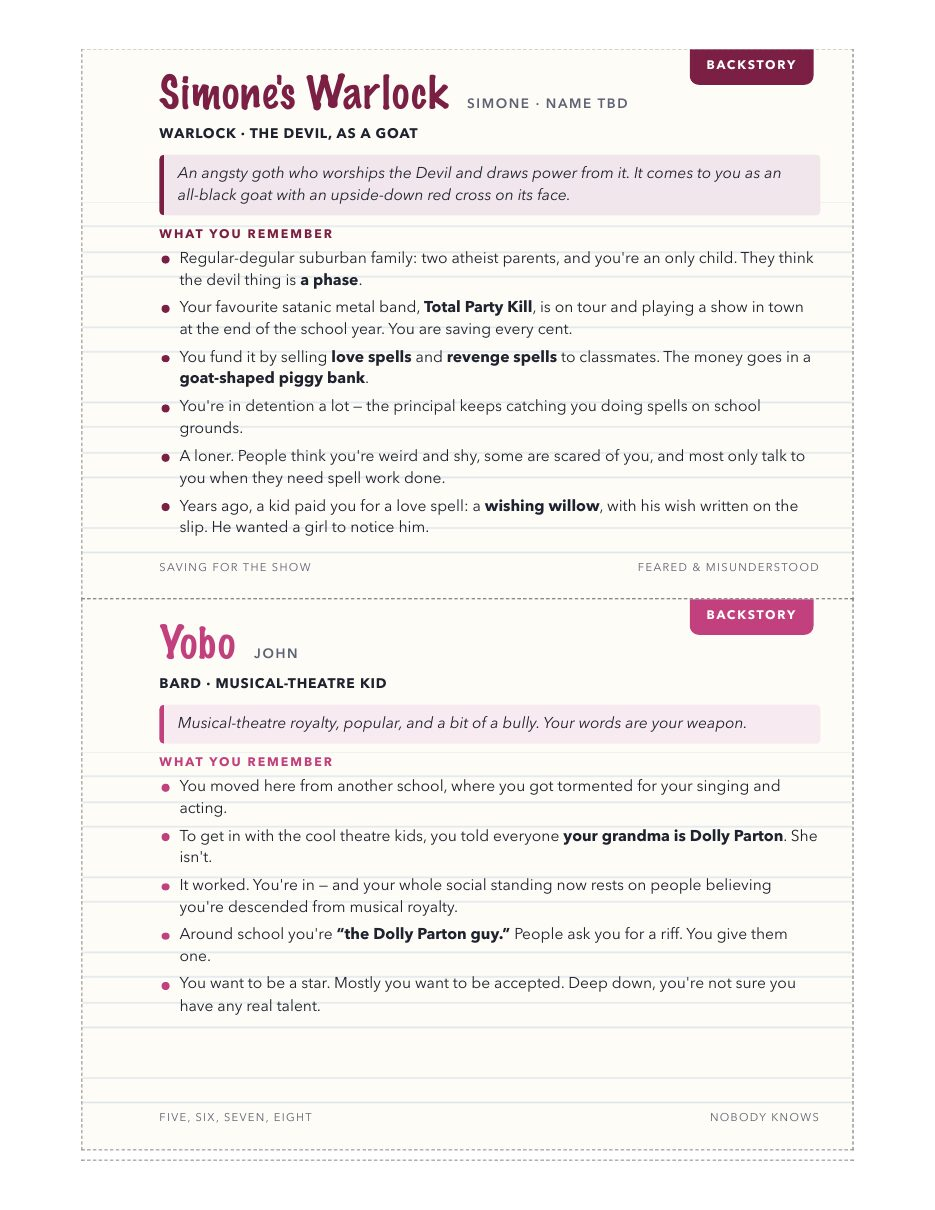
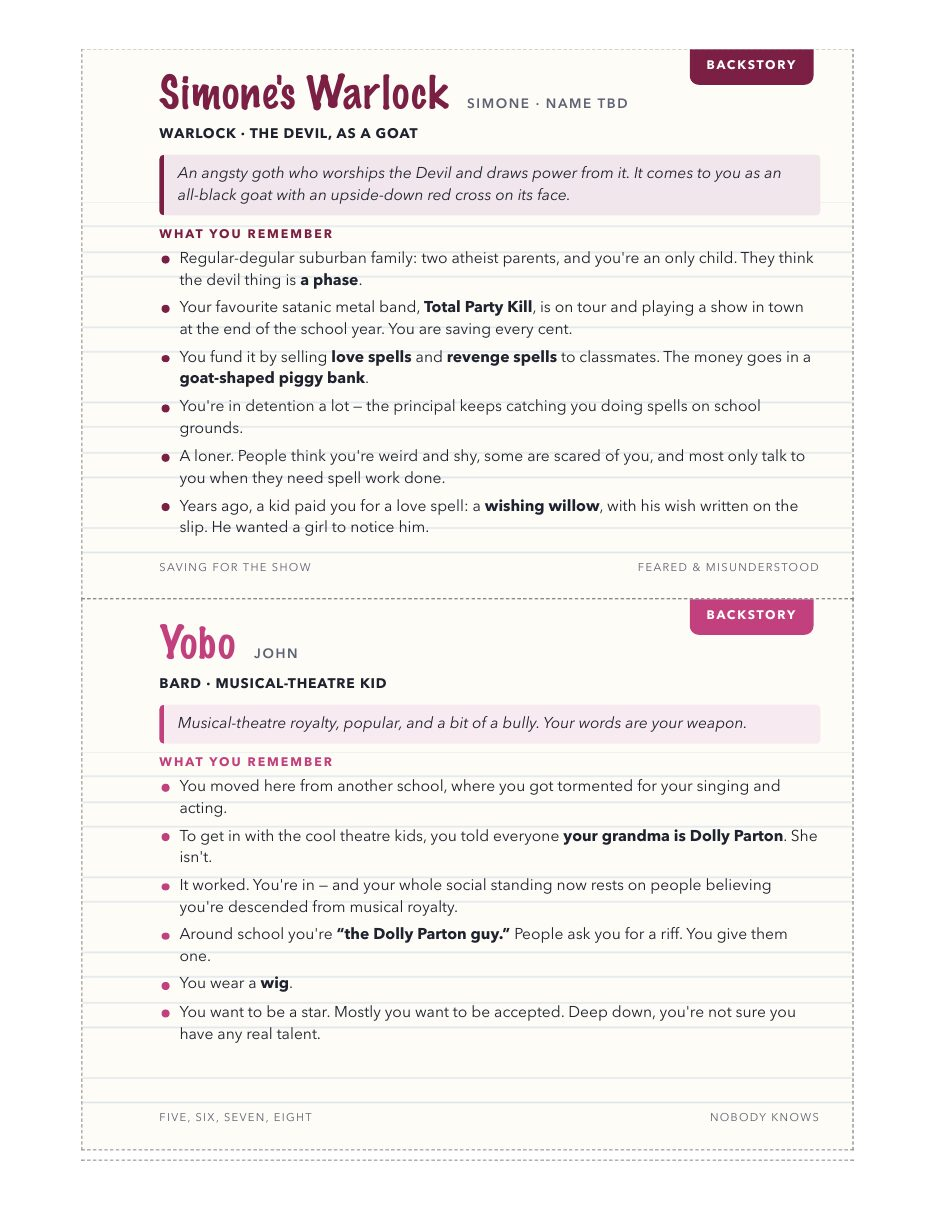
Yobo wears a wig; close contingencies; draft the set-dressing list
- o2 closed: Yobo wears a wig (Scott, aligned with John). Codex node,
  CANON rows and Yobo's backstory card updated; card reprinted.
- s9 closed (they'll improvise); t7 becomes card zero of the Run of Show
  (review:1); t5 gets a ten-item shopping list with rough prices
  (review:1).

Changed region(s): [[0.4652, 0.795, 0.6824, 0.8562], [0.1861, 0.795, 0.4342, 0.8562], [0.7444, 0.795, 0.8374, 0.8562]]

diff --git a/codex/index.html b/codex/index.html
@@ -535,10 +535,10 @@ const NODES = [
     finale:"<b>She gets the concert anyway.</b> Poe Boy loves Total Party Kill too and had tickets. When his mother arrives in the driveway she grounds him — <i>and he is certainly not going to that satan concert</i> — and the tickets end up with Simone, who spent every dollar she had a few hours earlier." },
   {id:"john", name:"Yobo", sub:"John · Musical-theatre Bard", g:"player", x:120, y:490,
     role:"Player Character", s:"doc",
-    fields:{Name:"Yobo",Race:"TBD",Class:"Bard (leaning)",Vibe:"Musical-theatre bully / popular kid living a lie"},
-    desc:"A <b>musical-theatre bully / popular kid</b> named <b>Yobo</b> who transferred in from a school where he was tormented for weak singing and acting. To get in with the cool theatre kids he told everyone <b>his grandmother is Dolly Parton</b> — a lie — so his whole social standing rests on people believing he's descended from musical royalty. He wants to be a star, but mostly just wants to be accepted, and he's deeply insecure about whether he has any real talent.",
+    fields:{Name:"Yobo",Race:"TBD",Class:"Bard (leaning)",Vibe:"Musical-theatre bully / popular kid living a lie",Wig:"Yes"},
+    desc:"A <b>musical-theatre bully / popular kid</b> named <b>Yobo</b> who transferred in from a school where he was tormented for weak singing and acting. To get in with the cool theatre kids he told everyone <b>his grandmother is Dolly Parton</b> — a lie — so his whole social standing rests on people believing he's descended from musical royalty. He wants to be a star, but mostly just wants to be accepted, and he's deeply insecure about whether he has any real talent. He wears a <b>wig</b>.",
     hook:"TLDR: <b>Yobo stops lying to the group about his origins and is stronger for it.</b> The lie is a <b>debuff</b> — juggling an internal performance gives <b>disadvantage on Performance and weakened Bardic Inspiration</b>, but <b>advantage on Deception</b>. The turn is in the <b>party room</b>: the frozen ghost-party accepts only a <i>true</i> performance, Dracula pushes him to drop the act, and it flips to <b>advantage on Performance and enhanced Bardic Inspiration</b> for the rest of the campaign. Prop at <code>/party-room/</code>; full build in <code>/PROPOSALS.md</code>.",
-    ai:"<b>Still open:</b> whether it's canon that Yobo wears a <b>wig</b> (written as a question for John, so it is NOT yet settled), plus his race, a Bard subclass (Glamour rhymes with Poe Boy), and the exact debuff/buff dice, which are Scott's to tune. The old 1938 blood tie (E. Hoeck on the puzzle checkout card) stays dropped and is now unclaimed." },
+    ai:"<b>Still open:</b> his race, a Bard subclass (Glamour rhymes with Poe Boy), and the exact debuff/buff dice, which are Scott's to tune. The old 1938 blood tie (E. Hoeck on the puzzle checkout card) stays dropped and is now unclaimed." },
   {id:"cody", name:"Russ", sub:"Cody · Firbolg Druid", g:"player", x:120, y:610,
     role:"Player Character", s:"doc",
     fields:{Race:"Firbolg",Class:"Druid",Vibe:"Earnest wilderness scout — basically Russell from Up"},
@@ -942,7 +942,7 @@ const TODO = [
   ["Why these five? — <b>deliberately unexplained</b>","The invite is exclusive — five cards, five lockers, nobody else — and nobody ever says why these five. The players will ask it out loud the moment they realise no one else got a card; let the question hang. Scott, 3 Nov.","doc"],
   ["Who was the 3AM flyer for?","There is a public-looking DJ show flyer for 3AM at Dood Mansion. With nobody else invited, either it went out wide as the <b>cover story</b> — the thing Poe Boy showed the vampires as proof he was staging the big scare they asked for — or it never left his hands and the whole show is for five people. Affects whether the flyer prop gets built as a real handout.","ai"],
   ["How the vamps learn the truth — <b>settled</b>","They believe he went out a window. <b>They learn the truth from the recording over the PA in the finale</b>, hearing it with everyone else. Scott, 3 Nov.","doc"],
-  ["John / Yobo — arc <b>settled</b>","Yobo (the Dolly-Parton lie, anxious about real talent) and his arc are settled — the lie is a Performance/Inspiration debuff (Deception upside) that flips to a buff when he tells the truth in the party room. <b>Still open:</b> the <b>wig</b> — written in as a question for John, so not yet settled — plus his race, a subclass, and the dice.","doc"],
+  ["John / Yobo — arc <b>settled</b>","Yobo (the Dolly-Parton lie, anxious about real talent) and his arc are settled — the lie is a Performance/Inspiration debuff (Deception upside) that flips to a buff when he tells the truth in the party room. He wears a <b>wig</b> (Scott, 3 Nov, with John). <b>Still open:</b> his race, a subclass, and the dice.","doc"],
   ["Cody's PC — <b>answered</b>","Cody's PC is a <b>Firbolg druid</b> (working name <b>Russ</b>, <i>basically Russell from Up</i>) who earns his <b>Assisting the Elderly</b> badge by helping the vampires and bonds with <b>Orlok</b>. Three requirements — the sunbeam spectacles, the cellar garden, and healing a vampire in the finale — then Orlok signs the card and his troop leader hands over the badge in the ending scene. The herb is <b>Sun's-mercy</b>; still open inside it: Cody's full sheet.","doc"],
   ["4th crew member","<b>The crew is three</b> — Poe Boy, Lil Stinky, Angelique, which is what the DJ flyer bills. A fourth was wanted <i>probably also female</i> and never written. Spencer has not agreed to lose her, so it needs raising with him.","doc","open"],
   ["Party level","<b>Level 4</b>, leveling to 5 at the end of day one — so anything on Sunday is built for five level-5 PCs (was level 3 → 4).","doc"],
@@ -1496,7 +1496,7 @@ const TODO_LIST = [
   "msg": "Campaign is this weekend!\n\nIf you can, pre-make your character before you show up. No worries if not, we'll build it together in person.\n\n• Level 4\n• 2024 Player's Handbook rules\n• Point buy or rolled stats, your pick\n• Your class's starting gear\n\nDigital character builder: https://www.dndbeyond.com/characters/builder\n\nNo need to send me anything. Day of, just bring your character, and dice if you have them.",
   "steps": [
    "<b>Simone</b> (warlock, Devil patron): still needs a <b>race</b> and a <b>character name</b>.",
-   "<b>John</b> (Yobo, bard): still needs a <b>race</b> and a <b>Bard subclass</b>, and an answer to whether Yobo wears a <b>wig</b>.",
+   "<b>John</b> (Yobo, bard): still needs a <b>race</b> and a <b>Bard subclass</b>.",
    "<b>Cody</b> (Russ, Firbolg druid): still needs a <b>druid subclass</b>, and to confirm <b>Russ</b> is the final name.",
    "<b>Don't tell anyone</b> about their own hooks. Julia's chip, Bix's parents, and what Simone's goat wants from her are all things they find out at the table."
   ]
@@ -1759,6 +1759,8 @@ const TODO_LIST = [
   "t": "Contingencies",
   "o": "both",
   "c": "Story",
+  "done": 1,
+  "ans": "They'll improvise",
   "note": "What happens if they kill the vampires in act one, or refuse to enter the house at all. Two sentences each is enough."
  },
  {
@@ -1801,8 +1803,9 @@ const TODO_LIST = [
   "t": "Ask John about the wig",
   "o": "scott",
   "c": "Outbox",
-  "needs": 1,
-  "note": "The arc is settled. The one thing left genuinely open is the <b>wig</b>: it's written in as a question, so it is NOT yet canon — is it OK to make it canon that Yobo wears one? That's John's call. Still to pin down too: his race, a Bard subclass, and the debuff/buff dice (Scott's to tune)."
+  "done": 1,
+  "ans": "Yes \u2014 Yobo wears a wig",
+  "note": "Scott and John are aligned: <b>Yobo wears a wig</b>, and it's canon. Still to pin down: his race, a Bard subclass, and the debuff/buff dice (Scott's to tune)."
  },
  {
   "id": "o5",
@@ -2069,7 +2072,10 @@ const TODO_LIST = [
   "t": "Write the general pre-session prep checklist",
   "o": "both",
   "c": "Weekend",
-  "note": "Not campaign-specific — the reusable list of what any DM needs in hand before running a weekend: rules and pre-set DCs, safety tools, table kit, pacing and break points, contingencies, and where the prep-versus-improvise line sits."
+  "review": 1,
+  "url": "../run/",
+  "ans": "Card zero of the Run of Show (in progress)",
+  "note": "Not campaign-specific \u2014 the reusable list of what any DM needs in hand before running a weekend: rules and pre-set DCs, safety tools, table kit, pacing and break points, contingencies, and where the prep-versus-improvise line sits."
  },
  {
   "id": "t6",
@@ -2110,9 +2116,22 @@ const TODO_LIST = [
  {
   "id": "t5",
   "t": "Lighting and set dressing",
-  "o": "none",
+  "o": "scott",
   "c": "Weekend",
-  "note": "Candles, lamps off, whatever sells a 3 AM haunted house in a living room."
+  "review": 1,
+  "note": "Candles, lamps off, whatever sells a 3 AM haunted house in a living room. \ud83d\udfe1 <b>Draft shopping list</b> with rough 2026 prices, about $165 all in \u2014 needs Scott's review.",
+  "steps": [
+   "<b>LED flicker candles</b>, a 12-pack \u2014 ~$15. Real flame and paper props don't mix.",
+   "<b>Warm string lights</b>, ~30 ft \u2014 ~$12.",
+   "<b>Fog machine</b>, a cheap 400W with fluid \u2014 ~$50. Or skip it: indoors it can set off a smoke alarm.",
+   "<b>Red bulbs</b>, two LED \u2014 ~$10. Swap one in for the 3AM show and the finale.",
+   "<b>Fake cobwebs</b> with plastic spiders \u2014 ~$6.",
+   "<b>Door sign</b>: <i>HAUNTED HOUSE \u2014 7PM SHARP</i>, reusing the invite art, printed on cardstock \u2014 ~$2.",
+   "<b>Bluetooth speaker</b> for the Run of Show soundboard \u2014 ~$30, or one you already own. A record player is a nice extra, not a need.",
+   "<b>A dusty sheet over a chair</b> \u2014 an old flat sheet from a thrift store, ~$8.",
+   "<b>A goat-shaped piggy bank</b> for Simone to smash \u2014 ~$20. <b>Worth flagging:</b> the smash is a real table moment from Sesh 8. Get a cheap ceramic one and smash it inside a towel.",
+   "<b>A merit-badge sash</b> for Russ \u2014 ~$10, for the troop leader to pin the badge on."
+  ]
  },
  {
   "id": "o1",

diff --git a/backstory/index.html b/backstory/index.html
@@ -265,6 +265,8 @@
           <li>It worked. You're in &mdash; and your whole social standing now rests on people believing you're descended from musical royalty.</li>
           <!-- In Person Session: "Dolly Parton riff" among the reveal items; Sesh 8 / codex gazebo: "you're the Dolly Parton guy — do a little riff" -->
           <li>Around school you're <b>&ldquo;the Dolly Parton guy.&rdquo;</b> People ask you for a riff. You give them one.</li>
+          <!-- Scott, 3 Nov (aligned with John): Yobo wears a wig. Canon doesn't say why, so neither does the card. -->
+          <li>You wear a <b>wig</b>.</li>
           <!-- Character Bios (John): wants to be a star, but really wants to be accepted; very insecure about artistic abilities -->
           <li>You want to be a star. Mostly you want to be accepted. Deep down, you're not sure you have any real talent.</li>
         </ul>

diff --git a/CANON.md b/CANON.md
@@ -464,6 +464,8 @@ then flips to **a clinic**.
 | **The cellar puzzle is Orlok's patient ledger.** Crate tags are matched to ledger entries; one patient is unaccounted for, and that leads to the hidden infirmary. Russ's Speak with Animals is the shortcut. Prop at `/ledger/` | Scott, 3 Nov |
 | **The wishing willow is made entirely by hand** by Scott — nothing to print | Scott, 3 Nov |
 | **Not needed:** ambient playlists (the Run of Show soundboard covers it), background slides (no second screen), a safety-tools agreement (Scott and Spencer have it covered) | Scott, 3 Nov |
+| **Yobo wears a wig.** Scott and John are aligned. Why he wears it is not specified | Scott, 3 Nov |
+| **Contingencies** (they kill the vampires early, they won't go in): none written; they'll improvise | Scott, 3 Nov |
 | **The mansion has enough puzzles:** the study door, the party room, the cellar ledger and the sticky note | Scott, 3 Nov |
 | **The session break is deliberately undefined.** Saturday ends wherever time runs out; the botched summoning closes Night 1 if the clock allows but isn't required to. Everyone levels to 5 at the end of day one | Scott, 3 Nov |
 | ~~The finale runs in three phases: vampires hostile → developer breaches → vampires turn~~ — **phase 1 cut in the In Person Session.** Two phases: developer breaches → the booth (vampires turn) | the 24 Aug doc paste, replaced by In Person Session |
@@ -558,7 +560,7 @@ Not yet pasted into the Google Doc — **do that to make them official.** Until 
 | ✅ **The boards come off the front door; there is no side-entrance tip.** Poe Boy pries the boards away for the party and stacks them against the porch rail — the only visible change to the house in decades, and the invitation. The party walks in the front, and *then* the doors bolt. What he hands them at the gazebo instead: *"I spin up there sometimes"* (Sesh 3, verbatim), *"wait till you see what I've done with the ballroom"*, and *"stick around till three"* — and, from the In Person Session, that **he'll be playing some new tunes**. The tell is what he leaves out — he never mentions the other room he keeps gear in. | 📗 Sesh 3's tip, **superseded by Sesh 7**. Sesh 3 wrote him as a helpful stranger; Sesh 7 made him the host, and a host who wants five specific people inside opens the door rather than sending them round the back. The old tip also created a contradiction — sneak past a boarded door that then bolts shut behind you |
 | ✅ **The climax happens in the ballroom / great hall**, rigged as a stage, with Poe Boy's decks there and the speakers run through the rest of the house. Keeps the climax clear of the cellar, which Path A needs for the coffins. Also settles that Poe Boy has **two** setups, not one: the old room upstairs with the original recording rig and the occupied computer, and the ballroom he built for tonight. | 🟡 room design — **decided by Scott, 24 Aug 2026.** The doc names no rooms in the mansion at all |
 | ✅ **The house's power is hot-wired off the neighbouring property.** Explains the working computer, the one lit room, and the speakers run through the house. Also the one thread anyone outside could pull on. | 🟡 the doc explains the computer but never the electricity — **decided by Scott** |
-| ✅ **John's PC is Yobo, and his arc is "stop lying, get stronger."** The grandmother-is-Dolly-Parton lie is a **Performance + Bardic-Inspiration debuff** (with a Deception upside) that flips to a buff when he tells the truth in the **party room**, where the frozen ghost-party accepts only a true performance and **Dracula coaches him** through it. Two artifacts: `/photo/` (now also the puzzle key) and a new `/party-room/` prop. Full build in `PROPOSALS.md`. | 📗 **Now in the doc** — Character Bios (Yobo) + Sesh 8 (the arc), pasted 5 Sep 2026. Only the wig is still open (written in as a question for John); race/subclass/dice unspecified |
+| ✅ **John's PC is Yobo, and his arc is "stop lying, get stronger."** The grandmother-is-Dolly-Parton lie is a **Performance + Bardic-Inspiration debuff** (with a Deception upside) that flips to a buff when he tells the truth in the **party room**, where the frozen ghost-party accepts only a true performance and **Dracula coaches him** through it. Two artifacts: `/photo/` (now also the puzzle key) and a new `/party-room/` prop. Full build in `PROPOSALS.md`. | 📗 **Now in the doc** — Character Bios (Yobo) + Sesh 8 (the arc), pasted 5 Sep 2026. Yobo wears a wig: Scott, 3 Nov, aligned with John. Race/subclass/dice unspecified |
 | ⏸ **The 1937 Crier stays 🟡** pending Scott's read of the article text. | unchanged |
 | ⏸ **The Gjenganger / Cornelis Dood stays 🟡** — parked entirely. A draft spec is in `PROPOSALS.md`; none of it is agreed. | unchanged |
 
@@ -744,7 +746,7 @@ stay on this list until you two decide:
   debuff (with a Deception upside) that flips to a buff when he tells the truth in the party room, with
   Dracula pushing him. So this is no longer AI-uncanon — see the decisions table and the Cast list. The old
   College-of-Whispers / "cruelty is the armor" framing was a separate codex invention and is superseded.
-  **Only the wig is still open** — the doc writes it in as a question for John — along with his race, a Bard
+  **Yobo wears a wig** (`Scott, 3 Nov`, aligned with John). Still open: his race, a Bard
   subclass, and the dice values. (The 1938 blood tie, E. Hoeck on the checkout card, stays dropped and unclaimed.)
 - **Orlok** does most of the actual frightening on Poe Boy's say-so
 - **Dracula** would happily brag the whole scheme to the heroes by accident
@@ -789,8 +791,8 @@ stay on this list until you two decide:
    a life that the table feels it. `Scott, 3 Nov`.
 3. Does the 1937 Crier become canon, get rewritten to the doc's 1973 Frisian version, or stay a prop that nobody has to believe?
 4. ~~John's insecurity — his to name.~~ — **answered and now in the doc** (Character Bios: Yobo, the
-   Dolly-Parton lie, anxiety about real talent; Sesh 8: the debuff→truth→buff arc). Only the **wig** is
-   still John's call — the doc writes it in as a question.
+   Dolly-Parton lie, anxiety about real talent; Sesh 8: the debuff→truth→buff arc). The **wig** is settled:
+   Yobo wears one. `Scott, 3 Nov`, aligned with John.
 5. ~~Cody's PC.~~ — **answered Sesh 8:** a Firbolg druid (working name Russ) earning his Assisting the Elderly badge by helping Orlok. Still open inside it: Cody's full sheet (the badge art is chosen: Codex option B, Scott, 3 Nov).
 6. The 4th crew member.
 7. Lock or kill: Dood Mansion, Upton Maximillion Livingsworth III, and the DJ/kingpin names that are locked only by repetition.
